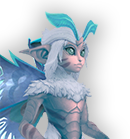
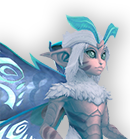
Soulbind Images for Venthyr/Necro Updated

diff --git a/src/Retail/Modules/Covenants/Components/CovenantExploration.js b/src/Retail/Modules/Covenants/Components/CovenantExploration.js
@@ -350,21 +350,21 @@ export default function CovenantExploration(props) {
               {/* ----------------------------------------- Nadjia Tab ----------------------------------------- */}
               <Tab
                 style={{ color: "white" }}
-                icon={<img height={100} alt={t("Covenants.Soulbinds.Nadjia")} src={process.env.PUBLIC_URL + "/Images/Interface/nadjia-the-mistblade.webp"} />}
+                icon={<img height={139} alt={t("Covenants.Soulbinds.Nadjia")} src={process.env.PUBLIC_URL + "/Images/Interface/Nadjia.png"} />}
                 label={t("Covenants.Soulbinds.Nadjia")}
                 {...a11yPropsVert(0)}
               />
               {/* ----------------------------------------- Theotar Tab ---------------------------------------- */}
               <Tab
                 style={{ color: "white" }}
-                icon={<img height={100} alt={t("Covenants.Soulbinds.Theotar")} src={process.env.PUBLIC_URL + "/Images/Interface/theotar-the-mad-duke.webp"} />}
+                icon={<img height={139} alt={t("Covenants.Soulbinds.Theotar")} src={process.env.PUBLIC_URL + "/Images/Interface/Theotar.png"} />}
                 label={t("Covenants.Soulbinds.Theotar")}
                 {...a11yPropsVert(1)}
               />
               {/* ----------------------------------------- Draven Tab ----------------------------------------- */}
               <Tab
                 style={{ color: "white" }}
-                icon={<img height={100} alt={t("Covenants.Soulbinds.Draven")} src={process.env.PUBLIC_URL + "/Images/Interface/general-draven.webp"} />}
+                icon={<img height={139} alt={t("Covenants.Soulbinds.Draven")} src={process.env.PUBLIC_URL + "/Images/Interface/Draven.png"} />}
                 label={t("Covenants.Soulbinds.Draven")}
                 {...a11yPropsVert(2)}
               />
@@ -403,21 +403,21 @@ export default function CovenantExploration(props) {
               {/* ---------------------------------------- Marileth Tab ----------------------------------------  */}
               <Tab
                 style={{ color: "white" }}
-                icon={<img height={100} alt={t("Covenants.Soulbinds.Marileth")} src={process.env.PUBLIC_URL + "/Images/Interface/plague-deviser-marileth.webp"} />}
+                icon={<img height={139} alt={t("Covenants.Soulbinds.Marileth")} src={process.env.PUBLIC_URL + "/Images/Interface/Marileth.png"} />}
                 label={t("Covenants.Soulbinds.Marileth")}
                 {...a11yPropsVert(0)}
               />
               {/* ------------------------------------------ Emeni Tab -----------------------------------------  */}
               <Tab
                 style={{ color: "white" }}
-                icon={<img height={100} alt={t("Covenants.Soulbinds.Emeni")} src={process.env.PUBLIC_URL + "/Images/Interface/emeni.webp"} />}
+                icon={<img height={139} alt={t("Covenants.Soulbinds.Emeni")} src={process.env.PUBLIC_URL + "/Images/Interface/Emeni.png"} />}
                 label={t("Covenants.Soulbinds.Emeni")}
                 {...a11yPropsVert(1)}
               />
               {/* ----------------------------------------- Heirmir Tab ----------------------------------------  */}
               <Tab
                 style={{ color: "white" }}
-                icon={<img height={100} alt={t("Covenants.Soulbinds.Heirmir")} src={process.env.PUBLIC_URL + "/Images/Interface/bonesmith-heirmir.webp"} />}
+                icon={<img height={139} alt={t("Covenants.Soulbinds.Heirmir")} src={process.env.PUBLIC_URL + "/Images/Interface/Heirmir.png"} />}
                 label={t("Covenants.Soulbinds.Heirmir")}
                 {...a11yPropsVert(2)}
               />
